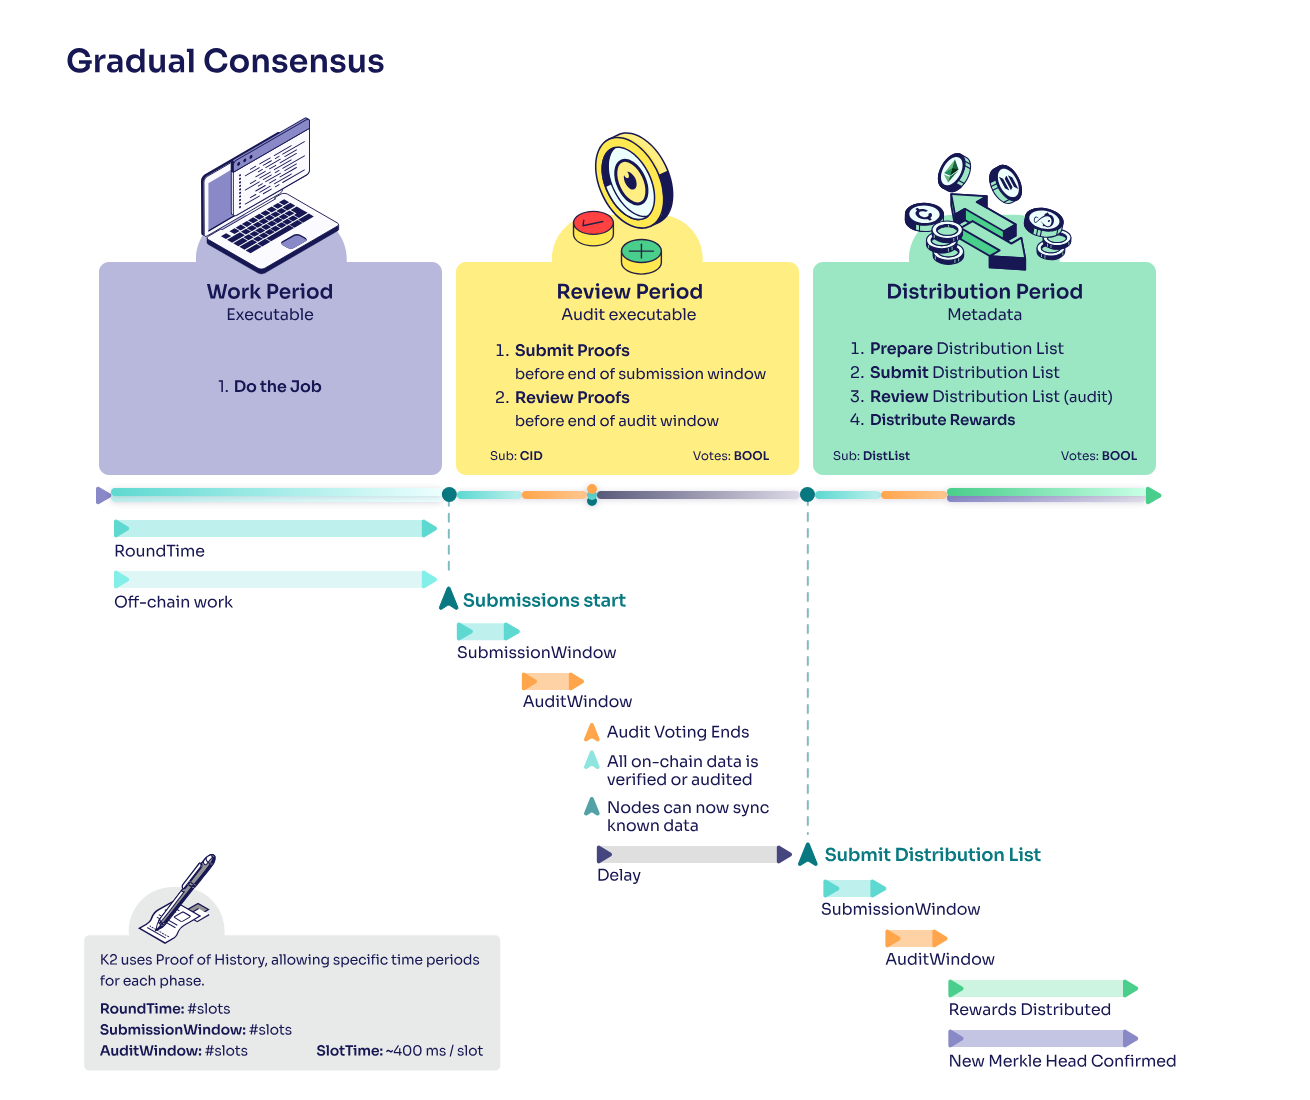
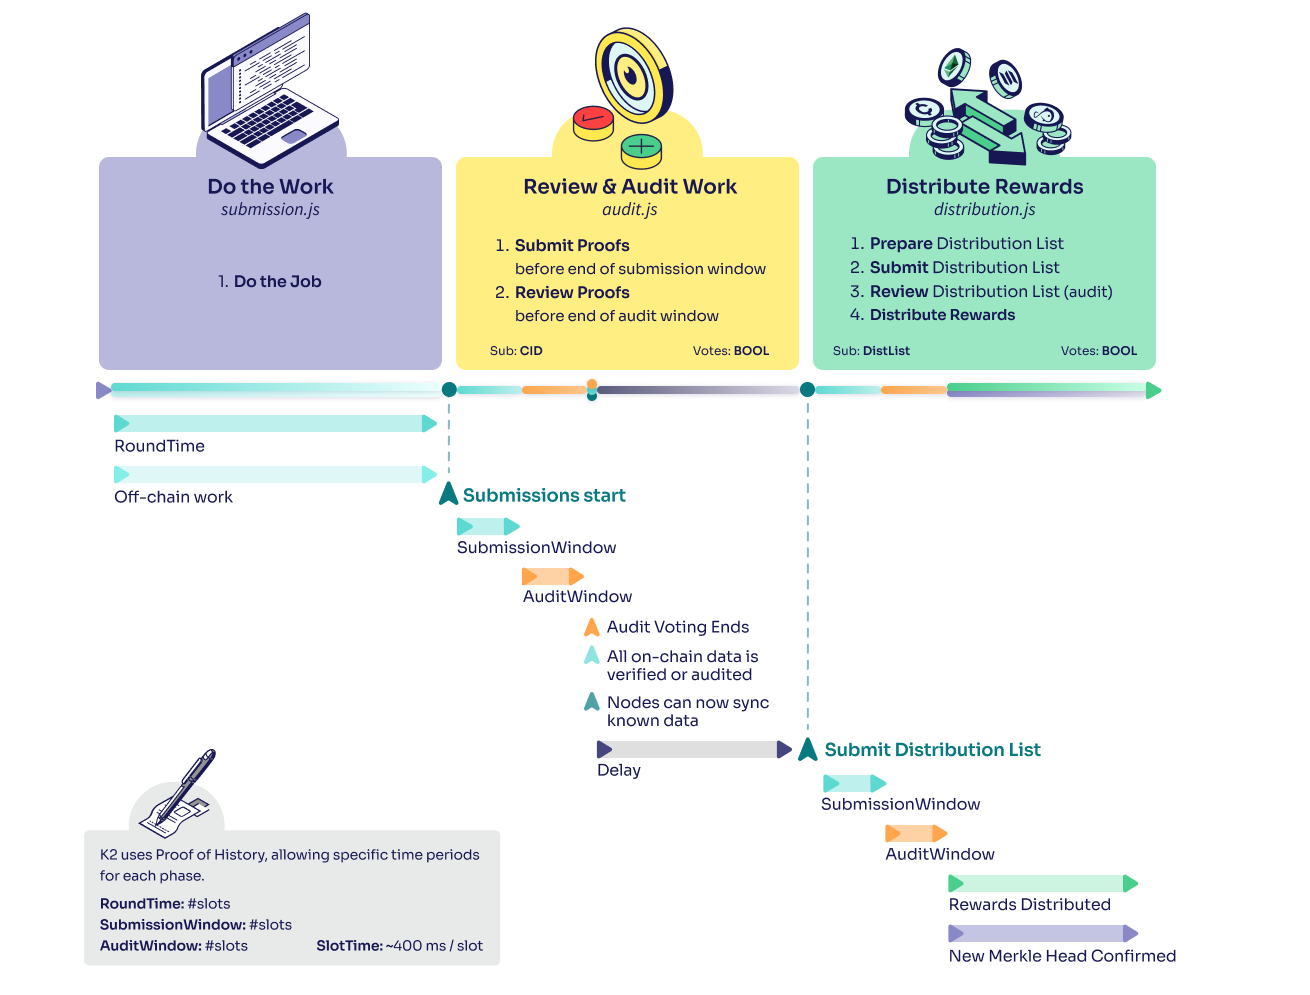
gradual consensus picture revise

Changed region(s): [[0.0305, 0.0, 0.8855, 0.9658], [0.0611, 0.7477, 0.3664, 0.9658], [0.2443, 0.9347, 0.3664, 0.9658]]

diff --git a/Lesson 1/README.md b/Lesson 1/README.md
@@ -4,9 +4,9 @@
 
 ### Overview
 
-A Koii Task is a way for you to run a computing job in a distributed fashion, across our network of Nodes. To distribute the task while ensuring that it's done  correctly, we break the work into rounds with these main components:
+A Koii Task is a way for you to run a computing job in a distributed fashion, across our network of Nodes. To distribute the task while ensuring that it's done correctly, we break the work into rounds with these main components:
 
-![Lesson_1_Know_Koii_Task_Basic](https://github.com/koii-network/ezsandbox/assets/66934242/97f6cdd9-b79c-44b2-b9f9-135c32f155eb)
+![Lesson_1_Know_Koii_Task_Basic](https://github.com/koii-network/ezsandbox/blob/main/Lesson%201/imgs/gradual-consensus.png)
 
 1. **Task**: This is the main work the node needs to do in each round.
 2. **Submission**: The result of the work is submitted to be checked.
